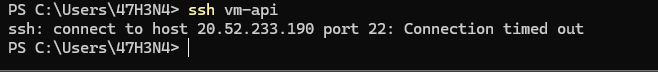
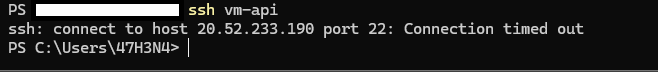
fix: use placeholders in Part 1 template and complete deploy command

Changed region(s): [[0.0304, 0.0278, 0.2736, 0.2222]]

diff --git a/infra-part1/README.md b/infra-part1/README.md
@@ -21,11 +21,14 @@ Either create them in the Portal with the values in the writeup, or deploy the e
 ```bash
 az group create --name rg-learningsteps --location germanywestcentral
 SUB_ID=$(az account show --query id -o tsv)
-sed "s/<subscription-id>/${SUB_ID}/g" infra-part1/azure-template/template.json > /tmp/template.json
+MY_IP=$(curl -s https://api.ipify.org)
+MY_EMAIL="you@example.com"
+sed -e "s/<subscription-id>/${SUB_ID}/g" -e "s/<your-ip>/${MY_IP}/g" -e "s/<your-email>/${MY_EMAIL}/g" \
+  infra-part1/azure-template/template.json > /tmp/template.json
 az deployment group create --resource-group rg-learningsteps --template-file /tmp/template.json
 ```
 
-The template uses `<subscription-id>` as a placeholder. The `sed` line above fills in your own subscription ID from `az account show`, so it is never stored in the repo. Run these commands in bash (for example in the Dev Container).. The template was exported from a running setup, so it may need small fixes before it deploys cleanly. Test it in a new resource group before relying on it.
+The template uses `<subscription-id>`, `<your-ip>` and `<your-email>` as placeholders. Set `MY_EMAIL` to the address for auto-shutdown notifications. The `sed` line fills in all three, so none of them is stored in the repo. Run these commands in bash, for example in the Dev Container. The template was exported from a running setup, so it may need small fixes before it deploys cleanly. Test it in a new resource group before relying on it.
 
 ### 2. Database server (vm-db)
 
